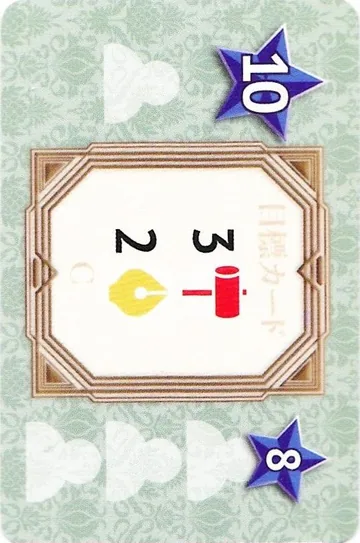
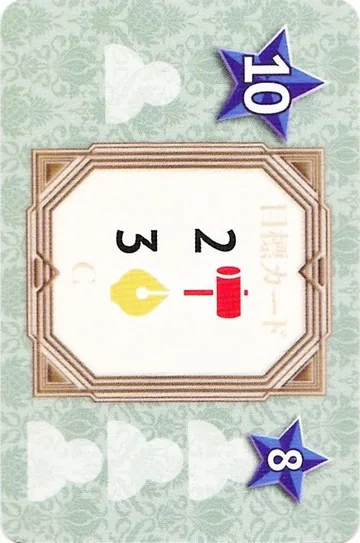
fix(web): the crop origin is the floor, and yellow is COMMERCIAL
Two corrections to the art, both found by an independent pass over the same
sheets, and both were wrong in a way no test could have caught.

THE CROP ORIGIN. Rounded origins (`round(i * extent / count)`) looked right
because three sheets do not divide evenly, but the extra pixel is a black
padding stripe on the far edge, not fractional cells. A mean-absolute-difference
scan along each axis puts the seam at the FLOOR index every time:

    order 8x5   row seam 3   floor 2396 -> 3.9   round 2397 -> 1.0
    order 8x5   row seam 4   floor 3195 -> 45.8  round 3196 -> 4.2
    base 3x4    col seam 2   floor 1417 -> 67.3  round 1418 -> 11.1
    3plus 2x3   row seam 2   floor 1061 -> 38.0  round 1062 -> 8.9

with the far edge reading 164-238 — the step into the stripe. So the rounded
crop was one pixel late on the last row or column AND pulled the stripe in.
The cells are exactly 530x799 and 709x531 throughout; TTS's own
`NumWidth`/`NumHeight` and the 709x531 deck-back file agree. Floor origins,
floor cells, one pixel of slop discarded.

YELLOW IS COMMERCIAL. The four category-C achievements name production and
commercial only by two coloured badges, and the intuitive guess — yellow for
production — is backwards, so all four were mapped to the wrong types. The
badges were re-resolved against the AREA TILE art, where the same two icons sit
in every tile's top-left corner and partition the engine's predicates exactly:
[…]

diff --git a/docs/tools/mkcardart.py b/docs/tools/mkcardart.py
@@ -116,10 +116,25 @@ BACKS = {
 # two `*_vp()` methods say. Each 3x2 sheet holds four faces and two backs, so
 # the two right-hand cells of row 2 are skipped.
 #
-# The faces were identified by reading the printed condition on each cell:
-# a number and the icon it counts. `Prod3Comm2` and `Prod2Comm3` are the pair
-# that needs care -- they differ only in which number sits over the yellow
-# (production) icon and which over the red (commercial) one.
+# The faces were identified by reading the printed condition on each cell: a
+# number and the icon it counts.
+#
+# CATEGORY C IS THE ONE THAT CAN BE GOT BACKWARDS, and the first reading of it
+# here WAS backwards. Those four cards name production and commercial only by
+# two coloured badges, and the intuitive guess -- yellow for the production
+# areas -- is wrong. The badges were resolved against the AREA TILE art
+# instead, where the same two icons appear in the top-left corner of every
+# tile, and they partition the engine's own predicates exactly:
+#
+#   YELLOW pen-nib     Port, Dock, Laboratory, Research Center, Bank, Church,
+#                      Customs, Employment Agency, Chinatown  == is_commercial()
+#   RED post           Silk Mill, Tea Plantation, Copper Mine, Fishing Ground
+#                                                             == is_production()
+#   neither            Canal
+#
+# So yellow is COMMERCIAL. The two mixed cards print commercial on the left and
+# production on the right -- the reverse of the engine's own (production,
+# commercial) tuple order, which is exactly why the mistake is easy to make.
 ACHIEVEMENTS = {
     # sheet          (row, col)  AchievementType serde name
     "achievement_A": {(1, 1): "Tea7", (1, 2): "Copper5", (1, 3): "Silk6", (2, 1): "Seafood7"},
@@ -130,10 +145,10 @@ ACHIEVEMENTS = {
         (2, 1): "Money10",
     },
     "achievement_C": {
-        (1, 1): "Prod3Comm2",
-        (1, 2): "Production4",
-        (1, 3): "Prod2Comm3",
-        (2, 1): "Commercial4",
+        (1, 1): "Prod2Comm3",  # 3 over yellow (commercial), 2 over red
+        (1, 2): "Commercial4",  # 4 over yellow only
+        (1, 3): "Prod3Comm2",  # 2 over yellow, 3 over red (production)
+        (2, 1): "Production4",  # 4 over red only
     },
 }
 
@@ -199,24 +214,29 @@ def slug(title: str) -> str:
 def cell_box(size: tuple[int, int], cols: int, rows: int, r: int, c: int):
     """The pixel box of 1-based cell (r, c).
 
-    TWO RULES, and each fixes a different sheet.
+    Uniform floor-sized cells at floor origins — `(c-1) * (w // cols)`. Three
+    sheets do not divide evenly (3996/5 = 799.2, 2128/3 = 709.33, 1594/3 =
+    531.33), and the tempting reading is that the cells are fractional. THEY
+    ARE NOT: the extra pixel is a black padding stripe on the far edge, and the
+    cells are exactly 530x799 and 709x531 throughout.
 
-    The ORIGIN is `round(i * extent / count)`, not `i * cell`: three sheets do
-    not divide evenly (3996/5 = 799.2, 2128/3 = 709.33, 1594/3 = 531.33) and a
-    fixed step would walk four pixels off the last row.
+    MEASURED, not assumed. A mean-absolute-difference scan along each axis puts
+    the seam gradient at the floor index every time and one pixel away from the
+    rounded one wherever the two differ:
 
-    The SIZE is the floor, identical for every cell, clamped to stay on the
-    sheet. Taking `round(i+1) - round(i)` instead makes neighbouring cells 709
-    and 710 wide on the same sheet, and the emitted art then carries two
-    different aspect ratios for what is one physical tile — which is what
-    `art.rs`'s aspect test found. One pixel of the sheet's slop is dropped;
-    every cell is the same shape, which is the property the client lays out on.
+        order 8x5   row seam 3   floor idx 2396 -> 3.9   round idx 2397 -> 1.0
+        order 8x5   row seam 4   floor idx 3195 -> 45.8  round idx 3196 -> 4.2
+        base 3x4    col seam 2   floor idx 1417 -> 67.3  round idx 1418 -> 11.1
+        3plus 2x3   row seam 2   floor idx 1061 -> 38.0  round idx 1062 -> 8.9
+
+    with the far edge reading 164-238 in every case — the step into the black
+    stripe. Rounded origins therefore shift the last row or column one pixel
+    late AND pull the stripe into the crop. TTS's own `NumWidth`/`NumHeight`
+    and the 709x531 deck-back file corroborate the cell size independently.
     """
     w, h = size
     cw, ch = w // cols, h // rows
-    x0 = min(round((c - 1) * w / cols), w - cw)
-    y0 = min(round((r - 1) * h / rows), h - ch)
-    return (x0, y0, x0 + cw, y0 + ch)
+    return ((c - 1) * cw, (r - 1) * ch, c * cw, r * ch)
 
 
 class Emitter:
